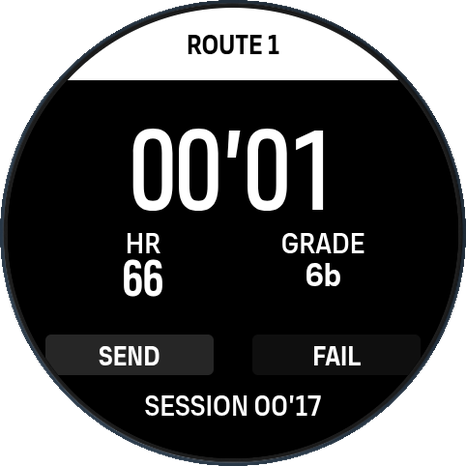
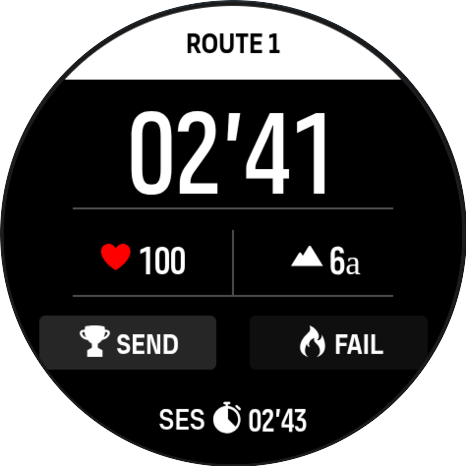
Sync from workspace

diff --git a/main.js b/main.js
@@ -28,6 +28,8 @@ var lastResult = 0;
 
 var routeHrSum = 0;
 var routeHrCount = 0;
+var routeMaxHrVal = 0;
+var lastMaxHr = 0;
 var lastDuration = 0;
 var lastGradeIdx = -1;
 var lastGradeSys = 0;
@@ -40,7 +42,6 @@ var totalHrSum = 0;
 var totalHrCount = 0;
 var maxHrSum = 0;
 var maxHrN = 0;
-var lastLapMax = 0;
 var hrBuf = new Array(180);
 var hrBufIdx = 0;
 var hrBufN = 0;
@@ -251,7 +252,10 @@ var finishRoute = function(output, isSend) {
   routePeak3min = 0;
   hrBufIdx = 0;
   hrBufN = 0;
-  lastLapMax = 0;
+  lastMaxHr = routeMaxHrVal;
+  if (routeMaxHrVal > 0) { maxHrSum += routeMaxHrVal; maxHrN++; }
+  allTimeStats.avgMaxHr = maxHrN > 0 ? Math.round(maxHrSum / maxHrN * 60) : 0;
+  routeMaxHrVal = 0;
   allTimeStats.totalRoutes++;
   if (isSend) allTimeStats.totalSends++;
   allTimeStats.sendPct = Math.round(allTimeStats.totalSends * 100 / allTimeStats.totalRoutes);
@@ -329,6 +333,7 @@ function evaluate(input, output) {
     if (input.Heartrate > 0) {
       routeHrSum += input.Heartrate;
       routeHrCount++;
+      if (input.Heartrate > routeMaxHrVal) routeMaxHrVal = input.Heartrate;
       hrBuf[hrBufIdx] = input.Heartrate;
       hrBufIdx = (hrBufIdx + 1) % 180;
       if (hrBufN < 180) hrBufN++;
@@ -353,13 +358,7 @@ function evaluate(input, output) {
   output.lastGrade = lastGradeIdx >= 0 ? encGrade(lastGradeSys, lastGradeIdx) : -1;
   output.lastDuration = lastDuration;
   output.routeHrAvg = lastHrAvg;
-  if (state === 2 && input.lapHrMax > 0 && lastLapMax === 0) {
-    lastLapMax = input.lapHrMax;
-    if (lastLapMax > 0) { maxHrSum += lastLapMax; maxHrN++; }
-    allTimeStats.avgMaxHr = maxHrN > 0 ? Math.round(maxHrSum / maxHrN * 60) : 0;
-    updateAllTimeStats();
-  }
-  output.routeMaxHr = lastLapMax;
+  output.routeMaxHr = lastMaxHr;
   output.routePk1 = lastPeak1min;
   output.routePk3 = lastPeak3min;
   output.lastResult = lastResult;
@@ -454,7 +453,10 @@ function onEvent(_input, output, eventId) {
         routeSeconds = 0;
         routeHrSum = 0;
         routeHrCount = 0;
-        lastLapMax = 0;
+        lastMaxHr = routeMaxHrVal;
+  if (routeMaxHrVal > 0) { maxHrSum += routeMaxHrVal; maxHrN++; }
+  allTimeStats.avgMaxHr = maxHrN > 0 ? Math.round(maxHrSum / maxHrN * 60) : 0;
+  routeMaxHrVal = 0;
         hrBufIdx = 0;
   hrBufN = 0;
         routePeak1min = 0;

diff --git a/break.html b/break.html
@@ -8,12 +8,12 @@
           function zoneCol(hz){
             if(maxHR<=0||hz<=0)return getStyle('css:.cm-fg','color');
             var pct=hz*60/maxHR*100;
-            return getStyle(pct>85?'css:.c-red':(pct>70?'css:.cm-mid':'css:.c-green'),'color');
+            return getStyle(pct>85?'css:.c-red':(pct>70?'css:.sp-c-yellow':'css:.c-green'),'color');
           }
           $.subscribe('/Zapp/{zapp_index}/Output/routeHrAvg',function(v){
             setStyle('#hrAvgVal','color',zoneCol(v));
           });
-          $.subscribe('/Activity/Lap/-2/HeartRate/Max',function(v){
+          $.subscribe('/Zapp/{zapp_index}/Output/routeMaxHr',function(v){
             setStyle('#hrMaxVal','color',zoneCol(v));
           });
           $.subscribe('/Zapp/{zapp_index}/Output/routePk1',function(v){
@@ -59,7 +59,7 @@
     <div class="sp-vertical-center" style="top:calc(46% - 50%e); left:calc(28% - 50%e);">
       <span class="sp-b-s">MAX</span>
       <span class="f-ico" style="padding-left:2px;padding-right:2px;font-size:80%">&#xF101;</span>
-      <span id="hrMaxVal" class="sp-b-s f-num"><eval input="/Activity/Lap/-2/HeartRate/Max" outputFormat="HeartRate_Fourdigits" default="--" /></span>
+      <span id="hrMaxVal" class="sp-b-s f-num"><eval input="/Zapp/{zapp_index}/Output/routeMaxHr" outputFormat="HeartRate_Fourdigits" default="--" /></span>
     </div>
 
     <div class="p-hc" style="top:35%;width:2px;height:16%;background:rgba(255,255,255,0.2)"></div>
